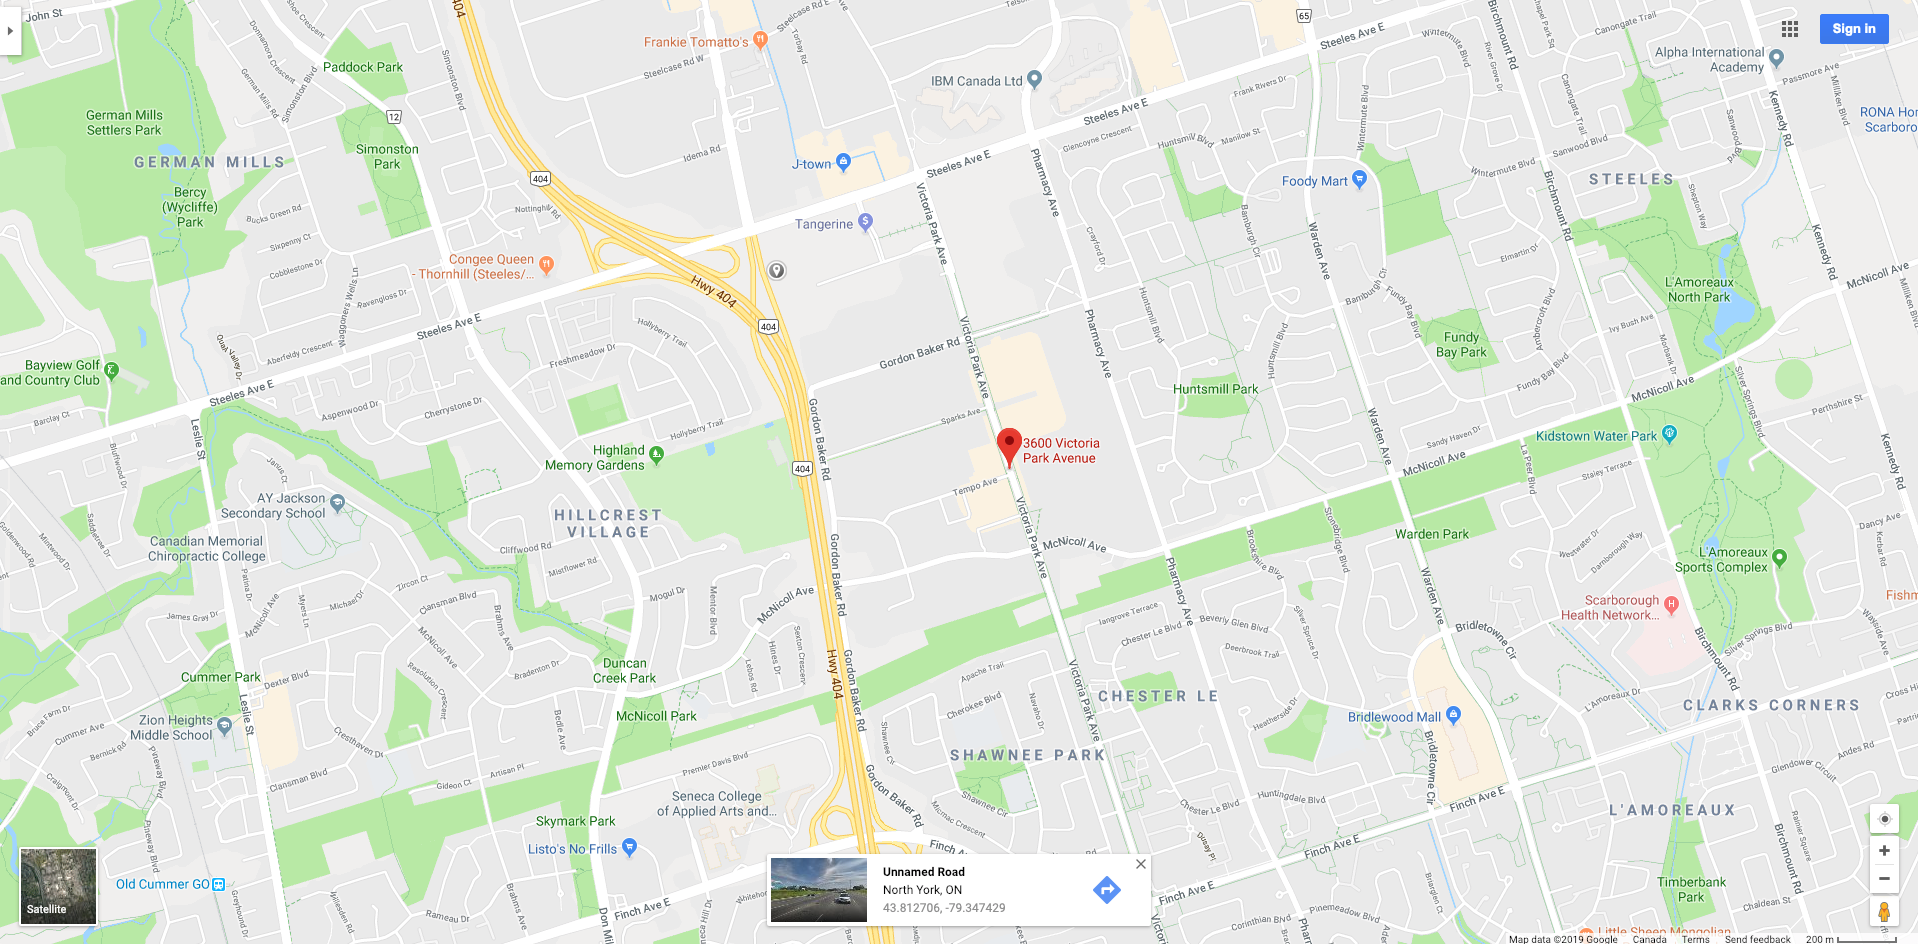
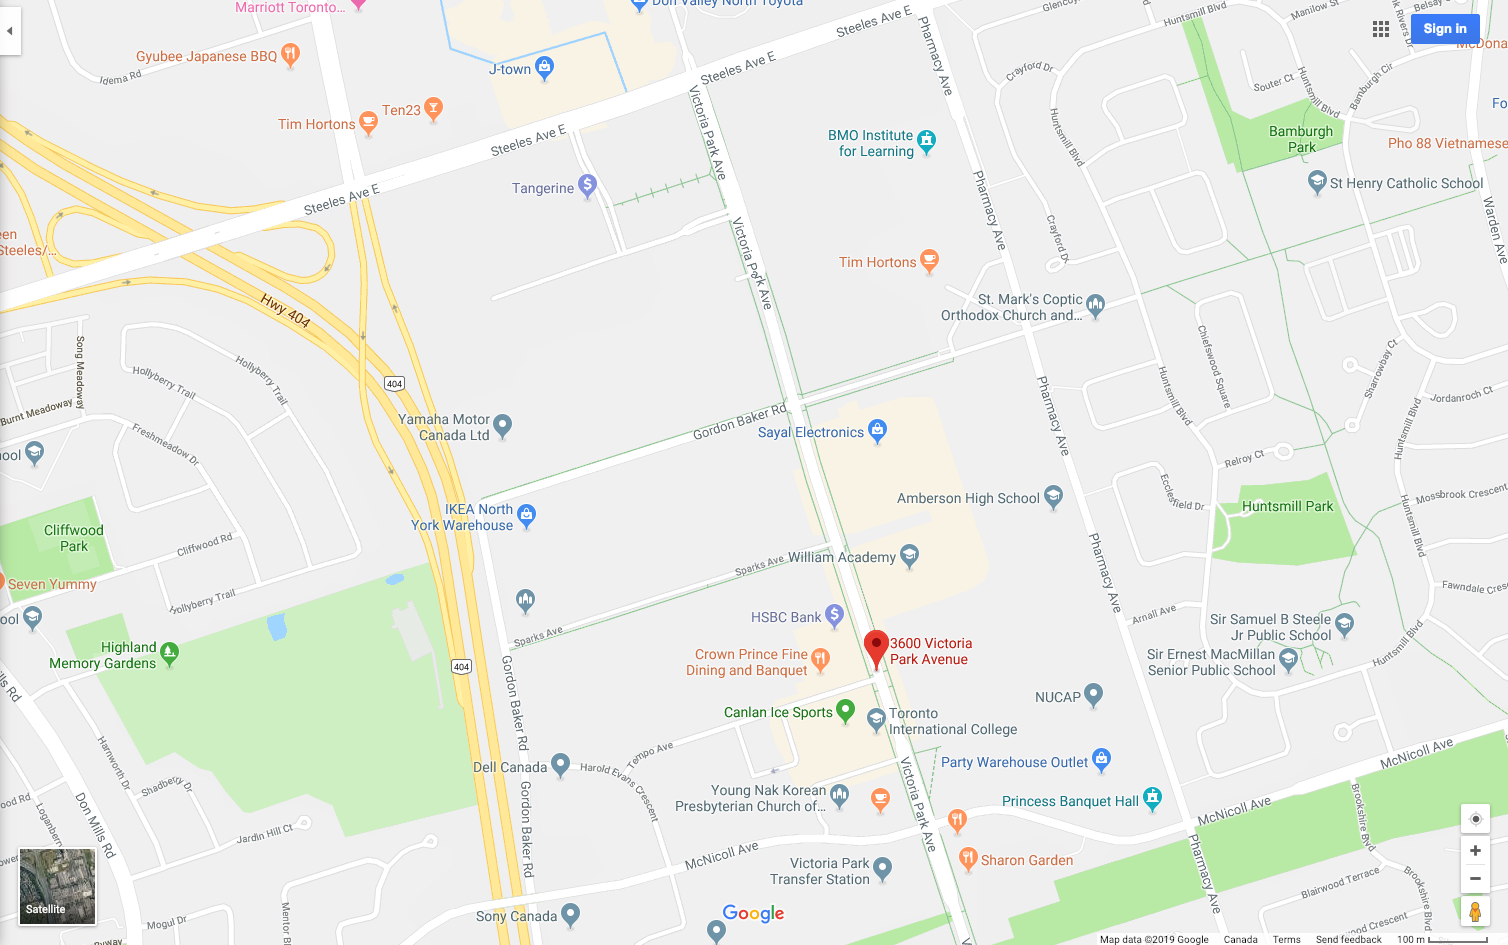
bind static google maps url / update image / add bottom padding to avoid flowers

diff --git a/src/app/app.component.html b/src/app/app.component.html
@@ -66,7 +66,7 @@
                     3600 Victoria Park Avenue, North York, ON M2H 3B2
                   </div>
 
-                  <a href="geo:43.805521,-79.3395755" target="_blank">
+                  <a href="{{ googleUrl }}" target="_blank">
                     <img
                       class="venue-image"
                       src="assets/location.png"

diff --git a/src/app/app.component.scss b/src/app/app.component.scss
@@ -89,6 +89,15 @@
 
       .venue-image {
         width: 100%;
+        padding-bottom: 0;
+
+        @media (min-width: 640px) {
+          padding-bottom: 2rem;
+        }
+
+        @media (min-width: 768px) {
+          padding-bottom: 5rem;
+        }
       }
 
       .rsvp {
